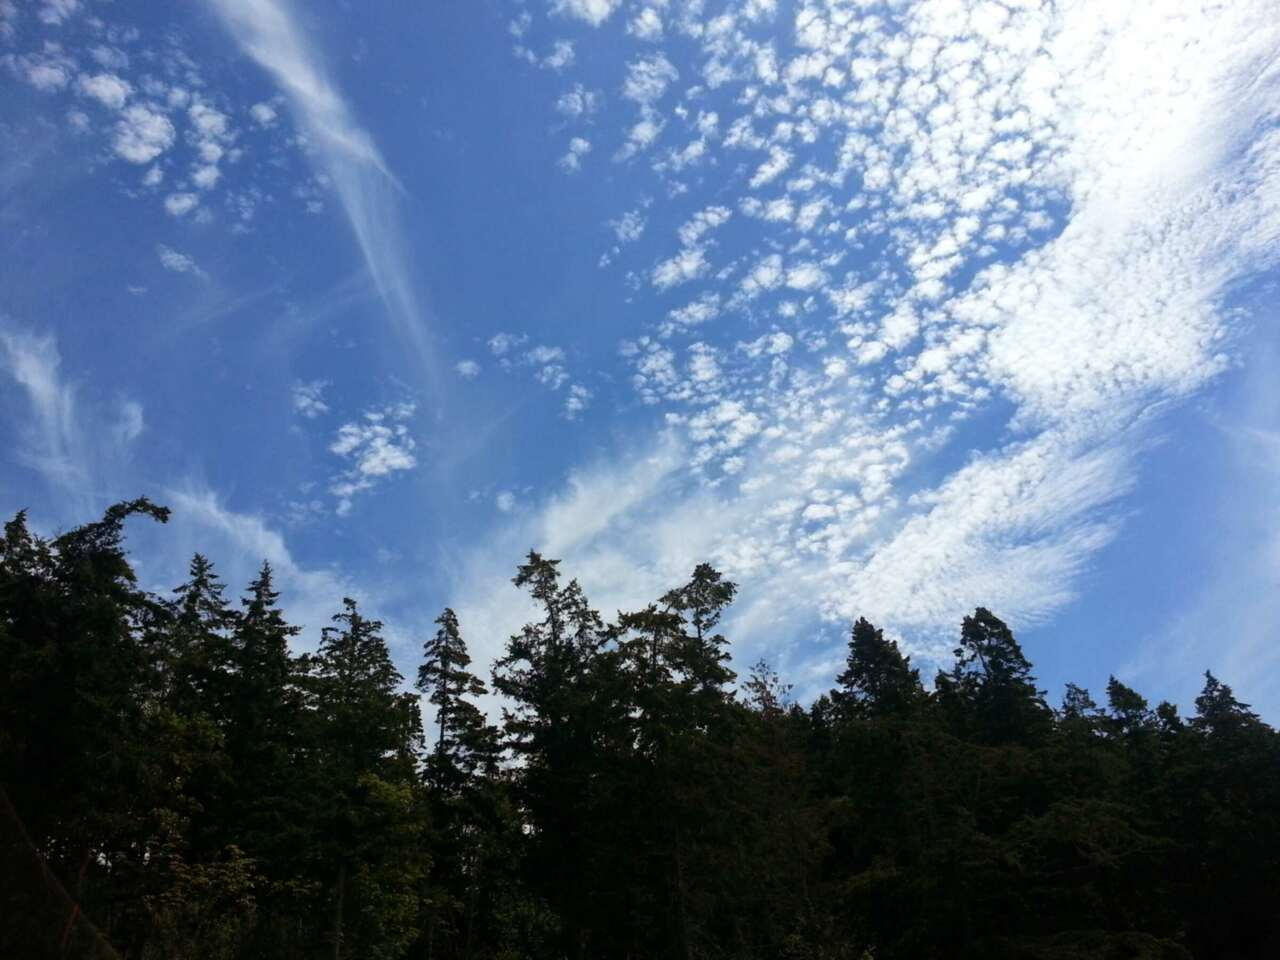
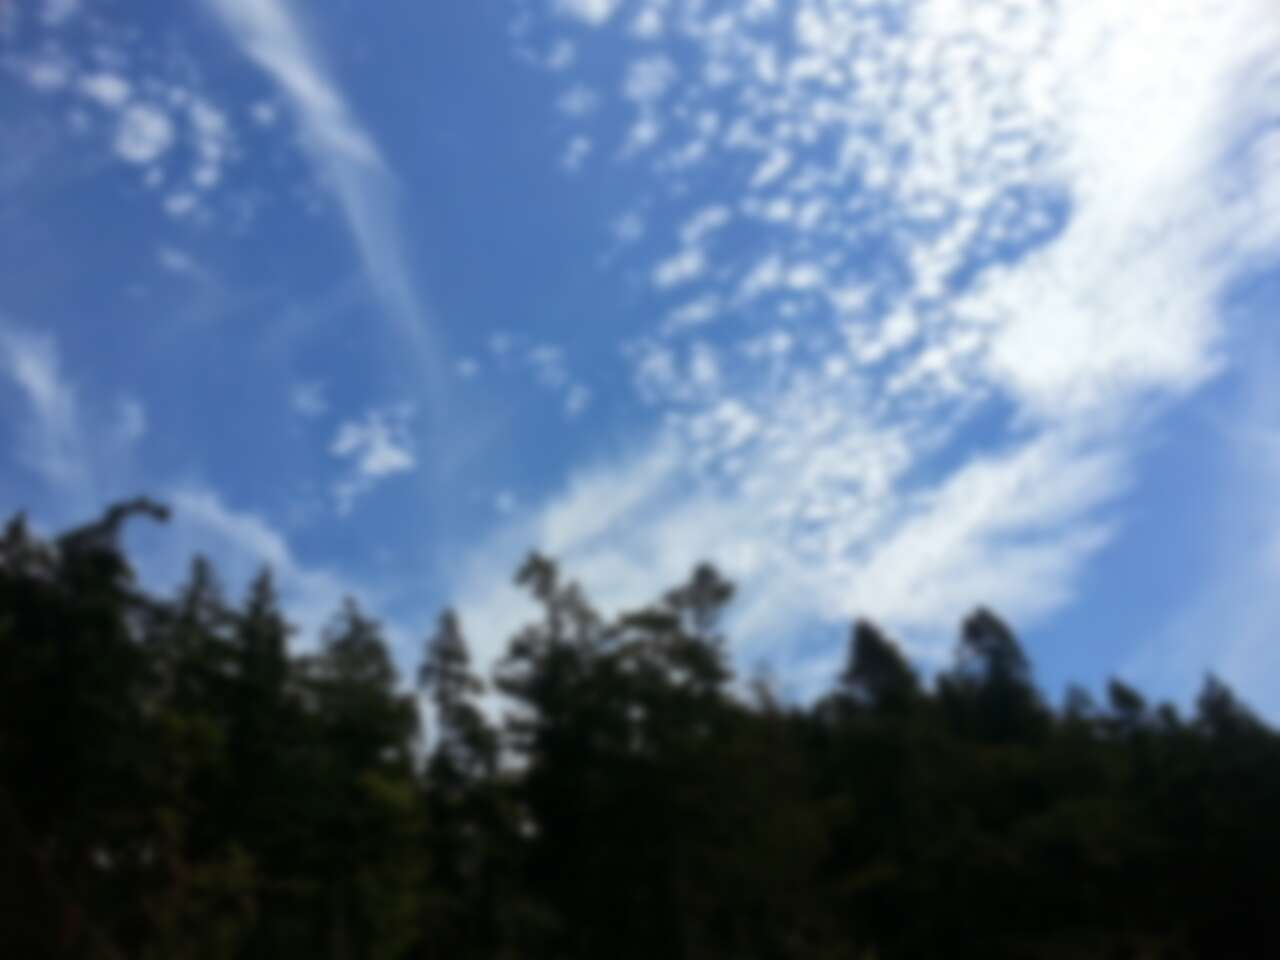
One dark design: light text over a dimmed, blurred sky and treeline, washed so text clears 4.5:1 over the brightest clouds

diff --git a/src/css/site.css b/src/css/site.css
@@ -14,36 +14,28 @@
   src: url(/fonts/source-serif-4-italic.woff2) format("woff2-variations");
 }
 
-/* The palette is the tree photo's: a pale overcast sky, dark bark, and the
-   rust of the bark in light as the one accent. */
+/* One dark design: light text over a dimmed, blurred sky and treeline. The
+   rust of bark in light is the one accent. */
 :root {
-  --page: #efeeeb;
-  --ink: #2a2321;
-  --muted: #6b625a;
-  --rule: rgb(42 35 33 / 0.16);
-  --accent: #a4532c;
-  --code-bg: #e5e2dd;
-  --wash: 85%;
+  --page: #1e1a18;
+  --ink: #ece7e2;
+  --muted: #d0c7be;
+  --rule: rgb(236 231 226 / 0.18);
+  --accent: #e3875a;
+  --code-bg: rgb(20 17 16 / 0.62);
+
+  /* How much of the page colour lies over the photo: --wash-top over the sky
+     at the top of the screen, --wash-bottom over the treeline. Set so text
+     clears 4.5:1 against the brightest clouds behind it. */
+  --wash-top: 79%;
+  --wash-bottom: 68%;
 
   --text: "Source Serif 4", Georgia, "Times New Roman", serif;
 
   --measure: 40rem;
   --gutter: clamp(1.25rem, 5vw, 3rem);
 
-  color-scheme: light;
-}
-
-@media (prefers-color-scheme: dark) {
-  :root {
-    --page: #1e1a18;
-    --ink: #ece7e2;
-    --muted: #a89d93;
-    --rule: rgb(236 231 226 / 0.16);
-    --accent: #e3875a;
-    --code-bg: #2a2421;
-
-    color-scheme: dark;
-  }
+  color-scheme: dark;
 }
 
 *,
@@ -57,8 +49,7 @@ html {
   text-size-adjust: 100%;
 }
 
-/* The sky and treeline behind every page, washed out toward the page colour so text
-   reads over it; in dark mode, washed toward the dark page instead. */
+/* The sky and treeline behind every page, fixed while the page scrolls. */
 body::before {
   content: "";
   position: fixed;
@@ -66,23 +57,19 @@ body::before {
   z-index: -1;
   background:
     linear-gradient(
-      color-mix(in srgb, var(--page) var(--wash), transparent),
-      color-mix(in srgb, var(--page) var(--wash), transparent)
+      color-mix(in srgb, var(--page) var(--wash-top), transparent),
+      color-mix(in srgb, var(--page) var(--wash-bottom), transparent)
     ),
     url(/images/sky-1280.jpg) 50% 50% / cover no-repeat,
     var(--page);
 }
 
 @media (min-width: 64rem) {
-  :root {
-    --wash: 35%;
-  }
-
   body::before {
     background-image:
       linear-gradient(
-        color-mix(in srgb, var(--page) var(--wash), transparent),
-        color-mix(in srgb, var(--page) var(--wash), transparent)
+        color-mix(in srgb, var(--page) var(--wash-top), transparent),
+        color-mix(in srgb, var(--page) var(--wash-bottom), transparent)
       ),
       url(/images/sky-2400.jpg);
   }
@@ -137,7 +124,7 @@ h3 {
 }
 
 .panel-inner {
-  padding: 3rem var(--gutter) 4.5rem;
+  padding: 3rem var(--gutter) 0;
 }
 
 .name {
@@ -245,17 +232,10 @@ h3 {
     transition: font-size 0.12s ease-out;
   }
 
-  .tagline {
-    color: color-mix(in srgb, var(--ink) 85%, transparent);
-  }
 
-  /* The text gets a solid column of page colour, so the photo can show at
-     full strength on either side of it. */
   .content {
     margin: 0;
     padding: 5rem 4rem 0;
-    min-height: 100vh;
-    background: var(--page);
   }
 }
 
@@ -380,21 +360,6 @@ section[id] > h2 {
   text-decoration: none;
 }
 
-/* On a wide screen, posts get the same solid column as the home page's text,
-   with the photo either side of it. */
-@media (min-width: 64rem) {
-  .masthead,
-  .page {
-    max-width: calc(var(--measure) + 8rem);
-    padding-inline: 4rem;
-    background: var(--page);
-  }
-
-  .page {
-    min-height: 100vh;
-  }
-}
-
 .post-header {
   padding-block: 3rem 1.5rem;
 }
@@ -503,26 +468,14 @@ pre {
 .token.string,
 .token.char,
 .token.attr-value {
-  color: #4c6a5c;
+  color: #9cc0ac;
 }
 
 .token.number,
 .token.property {
-  color: #3f6a70;
+  color: #8fbfc4;
 }
 
-@media (prefers-color-scheme: dark) {
-  .token.string,
-  .token.char,
-  .token.attr-value {
-    color: #9cc0ac;
-  }
-
-  .token.number,
-  .token.property {
-    color: #8fbfc4;
-  }
-}
 
 @media (prefers-reduced-motion: reduce) {
   .sections a {
